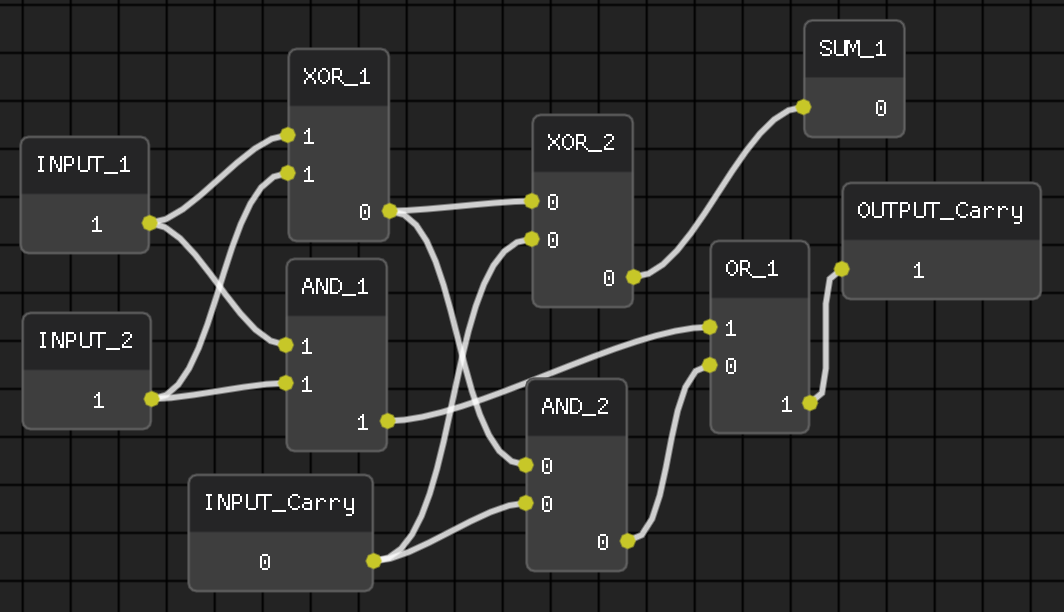
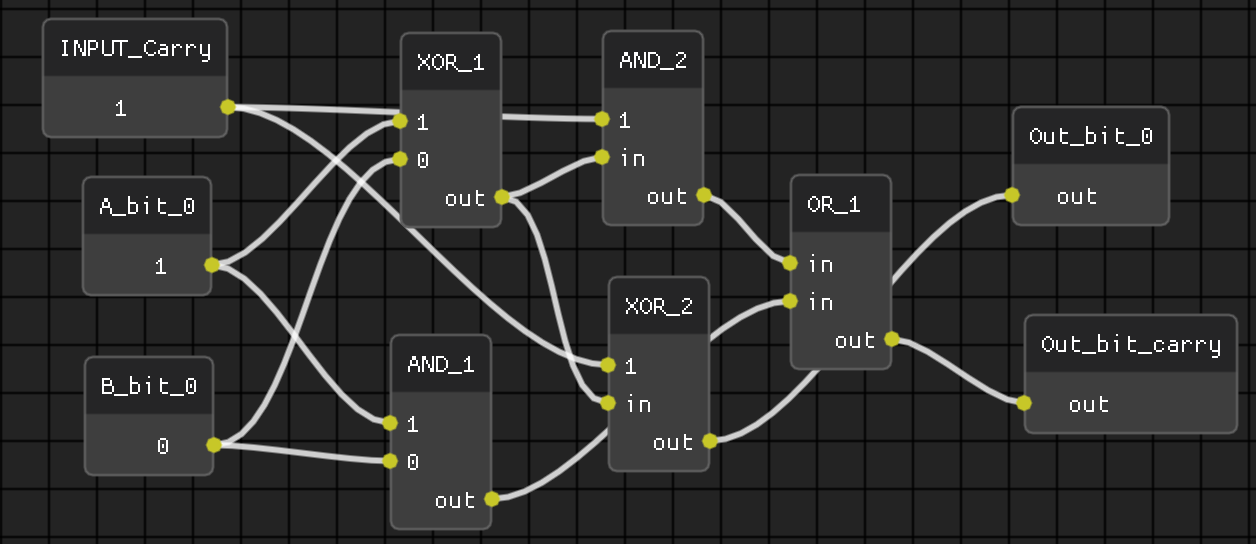
Made some edits.

diff --git a/logical_networks_paper/tex_files/sections/results.tex b/logical_networks_paper/tex_files/sections/results.tex
@@ -1,11 +1,11 @@
 \section{Results}
 
-The results of this work is the C-MCPN Framework and Editor, which provide a novel approach to representing and working with logical networks within the paradigm of logic programming. The framework and included neuron gates were validated for correctness using an 8-bit adder network, and the editor was used to construct and visualize this network. While being the main motivation for this work, results on its efficiency and scalability are left for future work since that will matter more for the adaptive neural network framework we are currently developing. The C-MCPN Framework and Editor are both open source and available at \url{https://github.com/*********}.
+The result of this work is the C-MCPN Framework and Editor, a novel approach to representing and reasoning over logical networks within logic programming. The framework and its neuron gates were validated using an 8-bit adder network, constructed and visualized with the editor. Results on efficiency and scalability, our primary motivation, are left for future work, as they matter more for the adaptive, learning-capable network framework we are currently developing. Both tools are open source and available at \url{https://github.com/David-Gonzalez-Sua/logical_networks/}.
 
 \subsection{Limitations}
 
-This work is a proof of concept for building ANNs in Clingo, and as such there are some limitations to be aware of. The framework has no cycle detection nor has it been tested on recurrent networks. This is likely to cause issues with the value inference program, as it relies on the values being propagated along the edges. The framework has also not been tested on large networks, and it is unknown how scale will affect its performance. Also, as noted in Section \ref{methodology}, Clingo does not have native support for floating point numbers, limiting its potential applications. 
+This work is a proof of concep, and as such has some limitations. The framework lacks cycle detection and has not been tested on recurrent networks, which is likely to cause issues for the value inference program. It has has also not been tested on large networks, and its performance at scale is unknown.As noted in Section \ref{methodology}, Clingo does not have native support for floating point numbers, limiting potential applications. 
 
 \subsection{Future Work}
 
-While there are many potential avenues for future work in this area, we are most excited about the possibility of using the C-MCPN Framework as the skeleton for an adaptive neural network which can learn on data. This framework is in its early stages, but we hope to also add it as a feature in the C-MCPN Editor in the future.
+Our current work focuses on using the C-MCPN Framework as the skeleton for an adaptive, learning-capable neural network. This framework is in its early stages, but we hope to add it as a feature in the C-MCPN Editor.

diff --git a/logical_networks_paper/tex_files/sections/conclusion.tex b/logical_networks_paper/tex_files/sections/conclusion.tex
@@ -1,6 +1,3 @@
 \section{Conclusion}
 
-The growing resource demands of modern AI motivate the search for more efficient alternatives, and Answer Set Programming presents a promising, underexplored direction. The C-MCPN Framework and Editor are a first step toward this goal, providing the representational foundation needed to build and study ASP-based neural networks. As we continue this work, our hope is that ASP's natural efficiency advantages will translate into meaningful gains for the learning systems built on top of it.
-
-
-% In this paper, we presented the C-MCPN Framework and Editor, demonstrating that Answer Set Programming can be used to represent and conduct inference over artificial neural network structures, specifically McCulloch-Pitts Networks. Our contribution is twofold: a novel two-layered representation for encoding ANN structure and inference in ASP, and a working, accessible tool that makes this representation practical to construct, visualize, and experiment with. Together, these establish a foundation for future work exploring whether ASP-based learning models can offer meaningful efficiency gains over traditional ANN implementations, an open question we are actively pursuing.
+The growing resource demands of modern AI motivate the search for more efficient alternatives, and Answer Set Programming presents a promising, underexplored direction. The C-MCPN Framework and Editor are a first step toward this goal, providing the representational foundation needed to build and study ASP-based neural networks. As we continue this work, our hope is that ASP's natural efficiency advantages will translate into meaningful improvements to the efficiency of learning and inference processes.

diff --git a/logical_networks_paper/tex_files/main.tex b/logical_networks_paper/tex_files/main.tex
@@ -34,7 +34,8 @@
 
 \end{document}
 
-% take out Nossig reference from bib? it was being used in the first paragraph of the intro
+% TRACKING all removed references to remove them later from bib file.
+% took out Nossig reference 
 % Got rid of Gori2005, Rudin2019, Brown2020 in ANNs background section
 % Got rid of devlin and vaswani and brown in background
 % Commented out Li and IOM

diff --git a/logical_networks_paper/tex_files/sections/background.tex b/logical_networks_paper/tex_files/sections/background.tex
@@ -18,7 +18,7 @@ The neurons can be connected together to form a network, whose structures can va
 
 \begin{figure}[h]
     \centering
-    \includegraphics[width=0.4\textwidth]{figures/neural_network.png}
+    \includegraphics[width=0.2\textwidth]{figures/neural_network.png}
     \caption{A diagram of a simple feedforward neural network}
     \label{neural_network}
 \end{figure}

diff --git a/logical_networks_paper/tex_files/sections/implementation.tex b/logical_networks_paper/tex_files/sections/implementation.tex
@@ -34,7 +34,7 @@ A screenshot of the editor can be seen in Figure \ref{cmcpn_editor}, showcasing 
 
 \begin{figure}[h]
     \centering
-    \includegraphics[width=0.6\textwidth]{figures/C-MCPN Editor 0\_0\_1.png}
+    \includegraphics[width=0.4\textwidth]{figures/C-MCPN Editor 0\_1.png}
     \caption{Screenshot of the C-MCPN Editor, showing a sample 1-bit adder network.}
     \label{cmcpn_editor}
 \end{figure}

diff --git a/logical_networks_paper/tex_files/sections/methodology.tex b/logical_networks_paper/tex_files/sections/methodology.tex
@@ -8,6 +8,7 @@ To build and test the framework the illustrative domain of digital logic for har
 
 For our example network, a 1-bit adder seen in Figure \ref{1_bit_adder}, we used neurons with three types of well established logic gates: AND, OR, and XOR. In Table \ref{definition_table} we show the neuron definitions of these gates, and their truth tables. Using a combination of these and more gates, one is able to construct complex logical operations\footnote{An elegant and simple proof of Clingo's Turing completeness falls out of the C-MCPN Framework.}.
 
+\vspace{-10pt}
 \begin{table}[h]
 % \caption{McCulloch-Pitts Neuron Definitions and Truth Tables.}
 \caption{Neuron Definitions and Truth Tables.}
@@ -36,6 +37,7 @@ For our example network, a 1-bit adder seen in Figure \ref{1_bit_adder}, we used
 }
 \end{center}
 \end{table}
+\vspace{-10pt}
 
 \begin{figure}[h]
     \centering